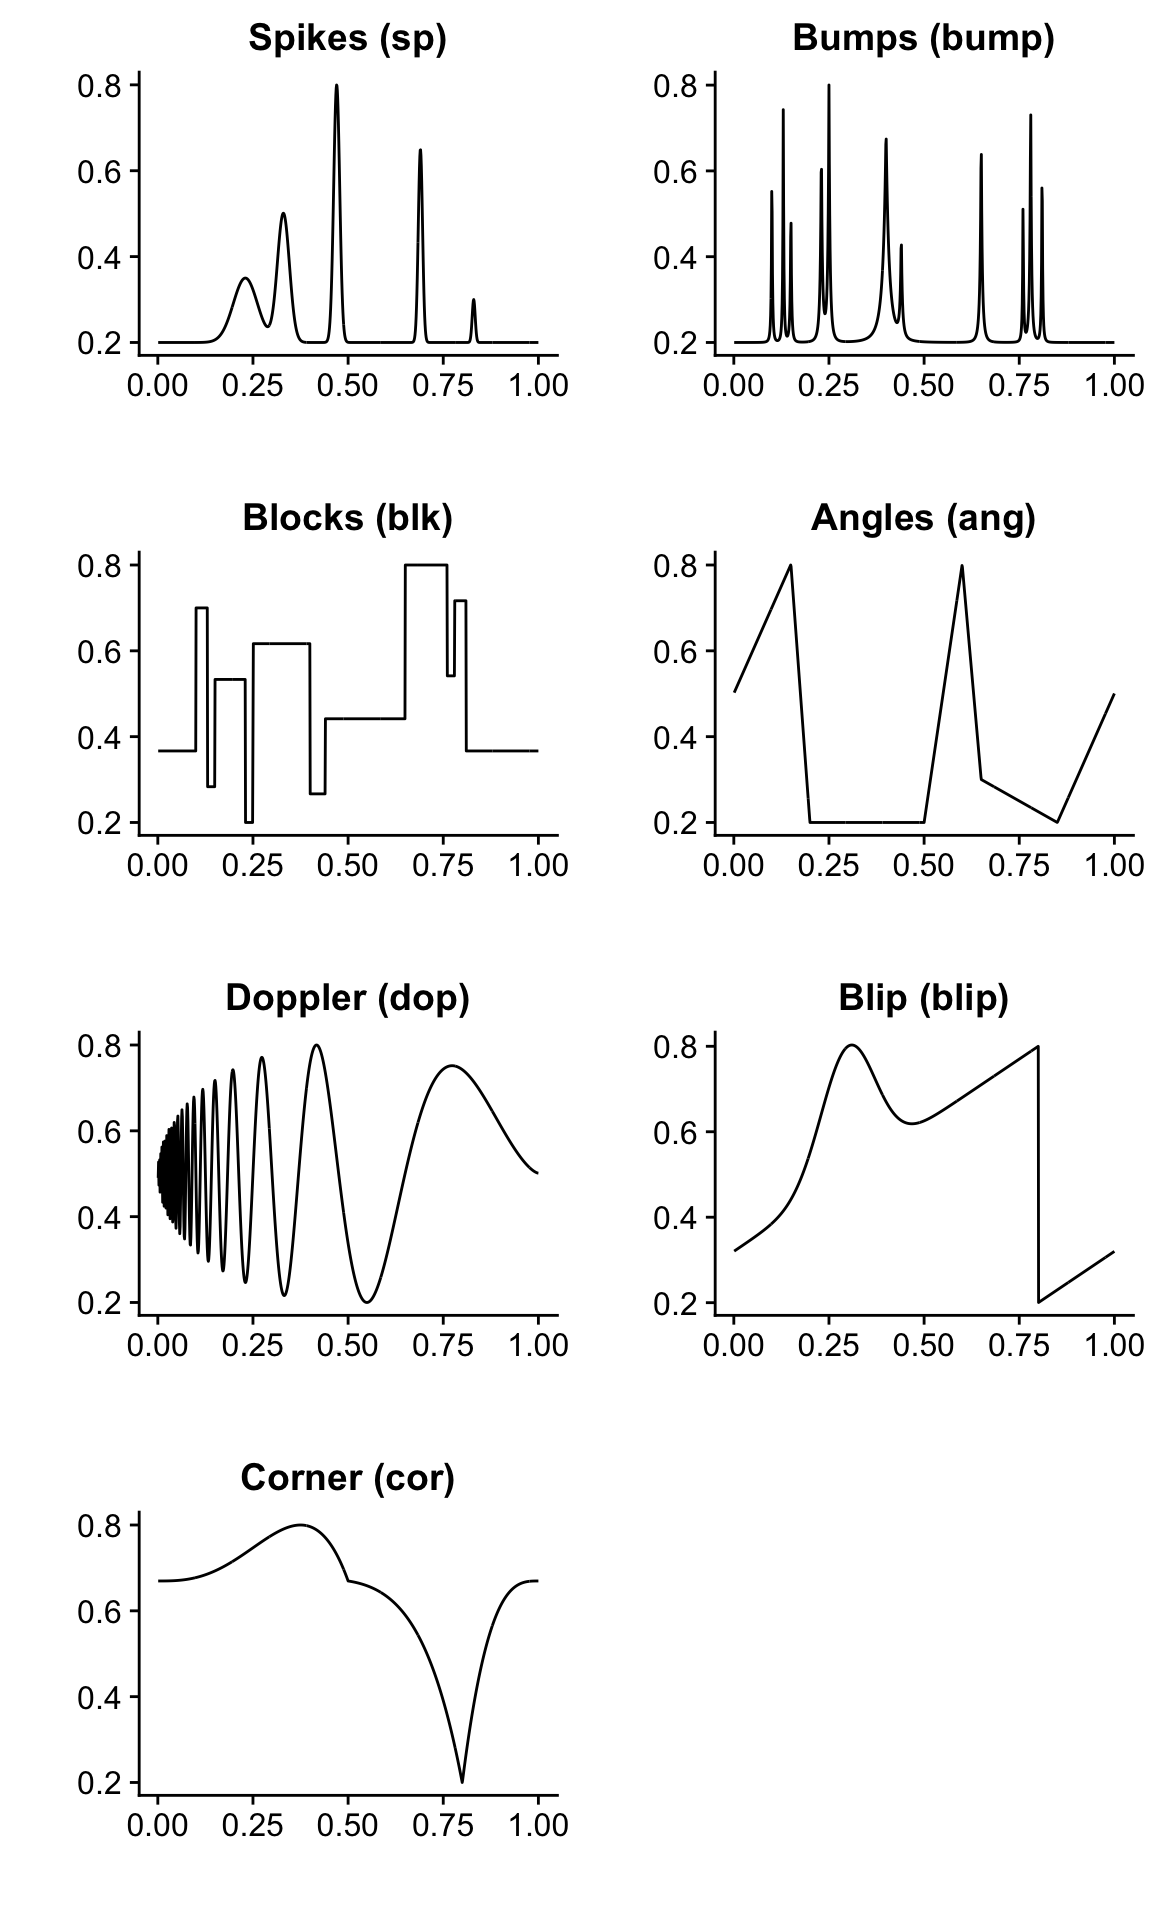
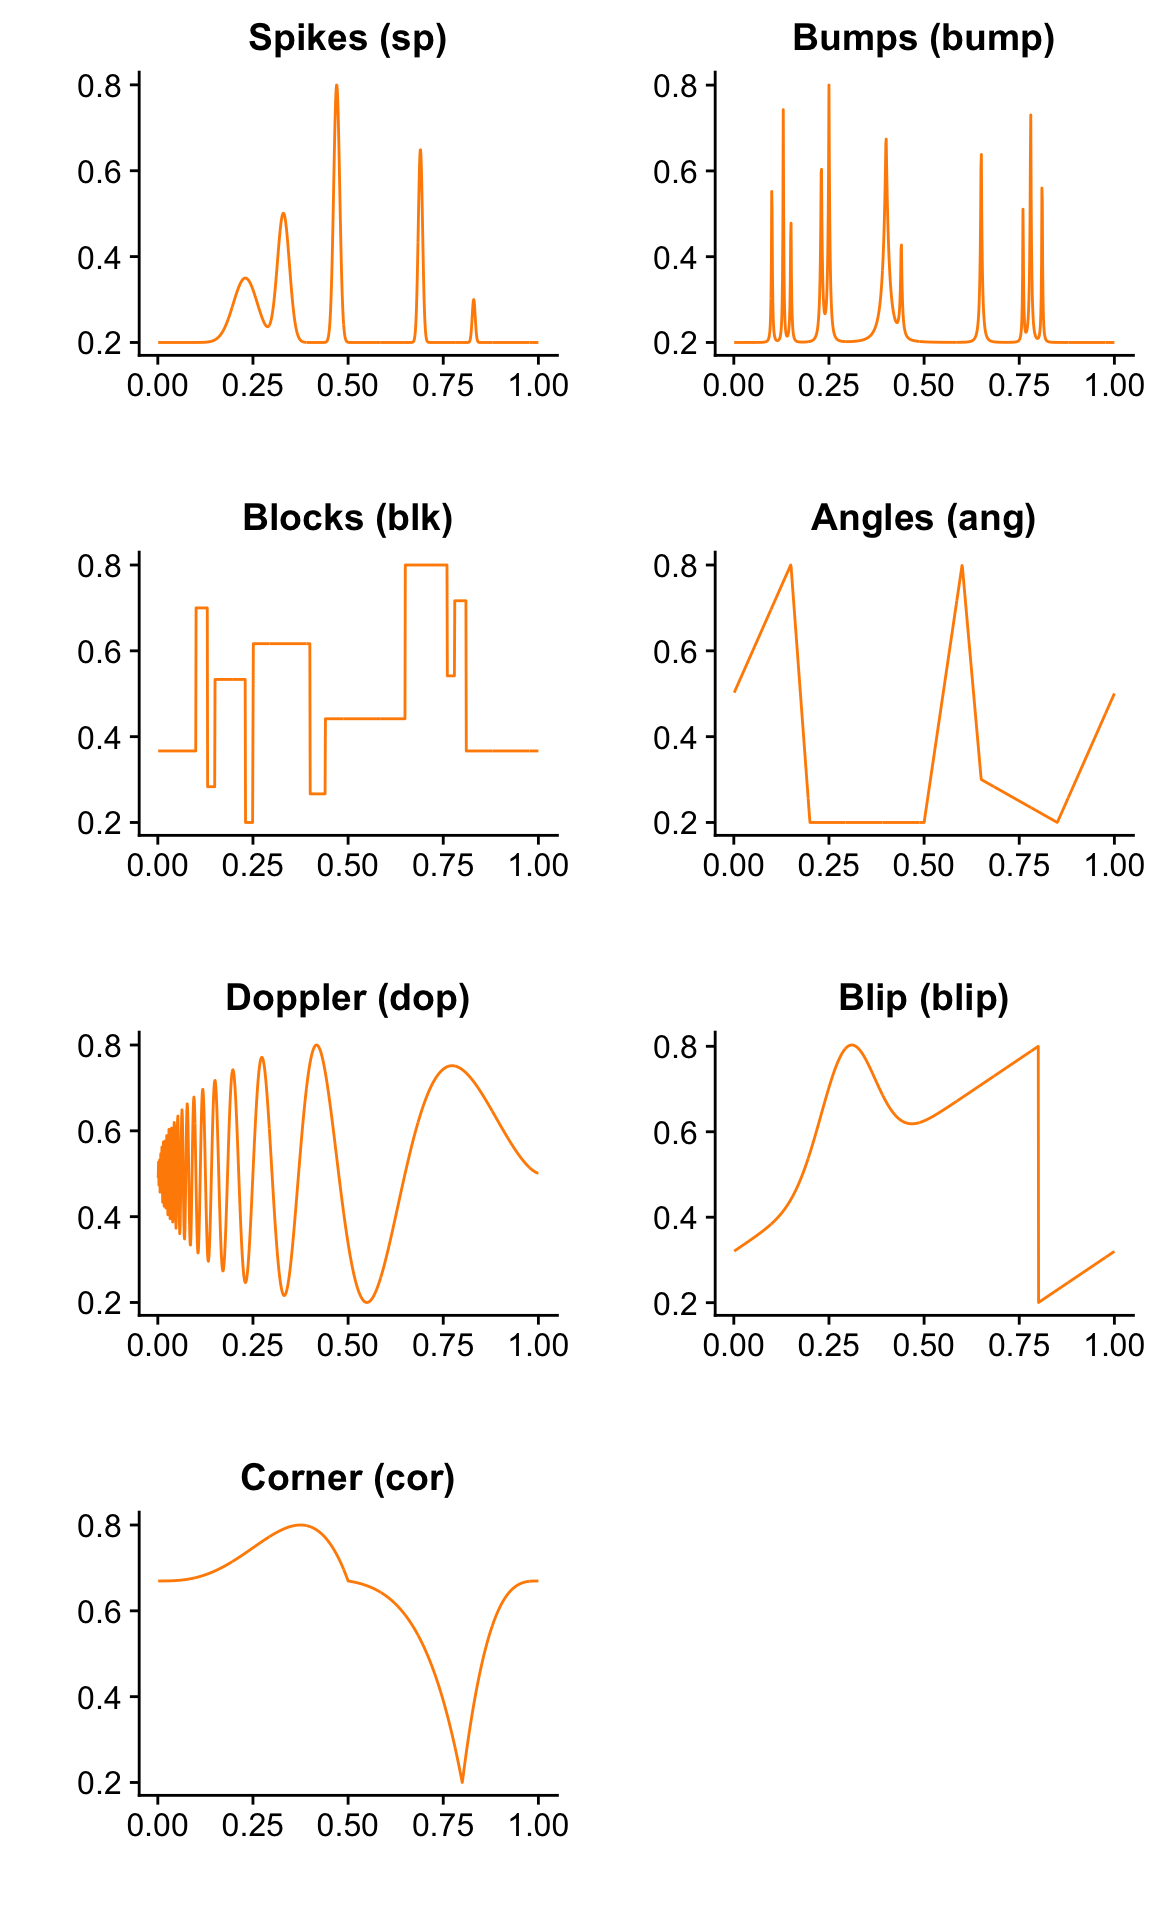
Simplified the plotting code in gaussian_signals analysis.

diff --git a/docs/gaussian_signals.html b/docs/gaussian_signals.html
@@ -419,10 +419,10 @@ This reproducible <a href="http://rmarkdown.rstudio.com">R Markdown</a> analysis
 <div class="panel panel-default">
 <div class="panel-heading">
 <p class="panel-title">
-<a data-toggle="collapse" data-parent="#workflowr-checks" href="#strongRepositoryversionstrongahrefhttpsgithubcomstephenslabsmashpapertree70f9238990e340e0b4520ec9e69ce609a825480atargetblank70f9238a"> <span class="glyphicon glyphicon-ok text-success" aria-hidden="true"></span> <strong>Repository version:</strong> <a href="https://github.com/stephenslab/smash-paper/tree/70f9238990e340e0b4520ec9e69ce609a825480a" target="_blank">70f9238</a> </a>
+<a data-toggle="collapse" data-parent="#workflowr-checks" href="#strongRepositoryversionstrongahrefhttpsgithubcomstephenslabsmashpapertreefdc925813720a196d2f12bc0247b4c769544022btargetblankfdc9258a"> <span class="glyphicon glyphicon-ok text-success" aria-hidden="true"></span> <strong>Repository version:</strong> <a href="https://github.com/stephenslab/smash-paper/tree/fdc925813720a196d2f12bc0247b4c769544022b" target="_blank">fdc9258</a> </a>
 </p>
 </div>
[2 lines of base64/hex data omitted]
 <div class="panel-body">
 <p>
 Great! You are using Git for version control. Tracking code development and connecting the code version to the results is critical for reproducibility. The version displayed above was the version of the Git repository at the time these results were generated. <br><br> Note that you need to be careful to ensure that all relevant files for the analysis have been committed to Git prior to generating the results (you can use <code>wflow_publish</code> or <code>wflow_git_commit</code>). workflowr only checks the R Markdown file, but you know if there are other scripts or data files that it depends on. Below is the status of the Git repository when the results were generated:
@@ -459,6 +459,9 @@ Ignored files:
 
 Untracked files:
     Untracked:  files.txt
+
+Unstaged changes:
+    Modified:   code/signals.R
 
 </code></pre>
 <p>
@@ -497,6 +500,40 @@ Message
 </tr>
 </thead>
 <tbody>
+<tr>
+<td>
+Rmd
+</td>
+<td>
+<a href="https://github.com/stephenslab/smash-paper/blob/fdc925813720a196d2f12bc0247b4c769544022b/analysis/gaussian_signals.Rmd" target="_blank">fdc9258</a>
+</td>
+<td>
+Peter Carbonetto
+</td>
+<td>
+2019-11-12
+</td>
+<td>
+wflow_publish(“gaussian_signals.Rmd”)
+</td>
+</tr>
+<tr>
+<td>
+html
+</td>
+<td>
+<a href="https://rawcdn.githack.com/stephenslab/smash-paper/c6e3cd3e0fea51b6a11210a4f7807426e70fa64e/docs/gaussian_signals.html" target="_blank">c6e3cd3</a>
+</td>
+<td>
+Peter Carbonetto
+</td>
+<td>
+2019-11-12
+</td>
+<td>
+Build site.
+</td>
+</tr>
 <tr>
 <td>
 Rmd
@@ -870,17 +907,11 @@ for (j in 1:length(pos))
   mu.blk = mu.blk + (1 + sign(t - pos[j])) * (hgt[j]/2)
 mu.cblk = mu.blk
 mu.cblk[mu.cblk &lt; 0] = 0</code></pre>
-<p>Define the Blip mean function.</p>
-<pre class="r"><code>mu.blip = (0.32 + 0.6 * t +
-           0.3 * exp(-100 * (t - 0.3)^2)) * (t &gt;= 0 &amp; t &lt;= 0.8) +
-  (-0.28 + 0.6 * t + 0.3 * exp(-100 * (t - 1.3)^2)) * (t &gt; 0.8 &amp; t &lt;= 1)</code></pre>
-<p>Define the Corner mean function.</p>
-<pre class="r"><code>mu.cor = 623.87 * t^3 * (1 - 2 * t) * (t &gt;= 0 &amp; t &lt;= 0.5) +
-         187.161 * (0.125 - t^3) * t^4 * (t &gt; 0.5 &amp; t &lt;= 0.8) +
-         3708.470441 * (t - 1)^3 * (t &gt; 0.8 &amp; t &lt;= 1)
-mu.cor = (0.6/(max(mu.cor) - min(mu.cor))) * mu.cor
-mu.cor = mu.cor - min(mu.cor) + 0.2</code></pre>
-<p>Define the rest of the mean functions.</p>
+<p>Define the “Blip” mean function.</p>
+<pre class="r"><code>mu.blip = blip.fn(t,&quot;mean&quot;)</code></pre>
+<p>Define the “Corner” mean function.</p>
+<pre class="r"><code>mu.cor = cor.fn(t,&quot;mean&quot;)</code></pre>
+<p>Define the remainder of the mean functions.</p>
 <pre class="r"><code>mu.sp   = (1 + mu.s)/5
 mu.bump = (1 + mu.b)/5
 mu.blk  = 0.2 + 0.6 * (mu.blk - min(mu.blk))/max(mu.blk - min(mu.blk))
@@ -892,8 +923,8 @@ var2 = (1e-02 + 4 * (exp(-550 * (t - 0.2)^2) +
                      exp(-200 * (t - 0.5)^2) +
                      exp(-950 * (t - 0.8)^2)))
 var3 = (1e-02 + 2 * mu.dop.var)
-var4 = 1e-02 + mu.b
-var5 = 1e-02 + 1 * (mu.cblk - min(mu.cblk))/max(mu.cblk)
+var4 = 0.01 + mu.b
+var5 = 0.01 + 1 * (mu.cblk - min(mu.cblk))/max(mu.cblk)
 var1 = var1/2
 var2 = var2/max(var2)
 var3 = var3/max(var3)
@@ -904,13 +935,16 @@ var5 = var5/max(var5)</code></pre>
 <h2>Plot the signal means</h2>
 <p>These plots show each of the mean functions used in generating the Gaussian data sets.</p>
 <pre class="r"><code>theme_set(theme_cowplot())
-plot_grid(qplot(t,mu.sp,  geom=&quot;line&quot;,xlab=&quot;&quot;,ylab=&quot;&quot;,main=&quot;Spikes (sp)&quot;),
-          qplot(t,mu.bump,geom=&quot;line&quot;,xlab=&quot;&quot;,ylab=&quot;&quot;,main=&quot;Bumps (bump)&quot;),
-          qplot(t,mu.blk, geom=&quot;line&quot;,xlab=&quot;&quot;,ylab=&quot;&quot;,main=&quot;Blocks (blk)&quot;),
-          qplot(t,mu.ang, geom=&quot;line&quot;,xlab=&quot;&quot;,ylab=&quot;&quot;,main=&quot;Angles (ang)&quot;),
-          qplot(t,mu.dop, geom=&quot;line&quot;,xlab=&quot;&quot;,ylab=&quot;&quot;,main=&quot;Doppler (dop)&quot;),
-          qplot(t,mu.blip,geom=&quot;line&quot;,xlab=&quot;&quot;,ylab=&quot;&quot;,main=&quot;Blip (blip)&quot;),
-          qplot(t,mu.cor, geom=&quot;line&quot;,xlab=&quot;&quot;,ylab=&quot;&quot;,main=&quot;Corner (cor)&quot;),
+plot.signal &lt;- function (t, y, label)
+  quickplot(t,y,geom = &quot;line&quot;,color = I(&quot;darkorange&quot;),
+            xlab = &quot;&quot;,ylab = &quot;&quot;,main = label)
+plot_grid(plot.signal(t,mu.sp,&quot;Spikes (sp)&quot;),
+          plot.signal(t,mu.bump,&quot;Bumps (bump)&quot;),
+          plot.signal(t,mu.blk,&quot;Blocks (blk)&quot;),
+          plot.signal(t,mu.ang,&quot;Angles (ang)&quot;),
+          plot.signal(t,mu.dop,&quot;Doppler (dop)&quot;),
+          plot.signal(t,mu.blip,&quot;Blip (blip)&quot;),
+          plot.signal(t,mu.cor,&quot;Corner (cor)&quot;),
           nrow = 4,ncol = 2)</code></pre>
 <p><img src="figure/gaussian_signals.Rmd/plot-mean-functions-1.png" width="576" style="display: block; margin: auto;" /></p>
 <p>
@@ -935,6 +969,17 @@ Date
 </tr>
 </thead>
 <tbody>
+<tr>
+<td>
+<a href="https://github.com/stephenslab/smash-paper/blob/c6e3cd3e0fea51b6a11210a4f7807426e70fa64e/docs/figure/gaussian_signals.Rmd/plot-mean-functions-1.png" target="_blank">c6e3cd3</a>
+</td>
+<td>
+Peter Carbonetto
+</td>
+<td>
+2019-11-12
+</td>
+</tr>
 <tr>
 <td>
 <a href="https://github.com/stephenslab/smash-paper/blob/f0221c57754f27ee83db649f39a808895e4c1294/docs/figure/gaussian_signals.Rmd/plot-mean-functions-1.png" target="_blank">f0221c5</a>
@@ -987,13 +1032,12 @@ Peter Carbonetto
 <div id="plot-the-signal-variances" class="section level2">
 <h2>Plot the signal variances</h2>
 <p>These plots show the variance functions used in generating the Gaussian data sets. In practice, these functions are rescaled in the simulations to achieve the desired signal-to-noise ratios (see the paper for a more detailed explanation).</p>
-<pre class="r"><code>plot_grid(
-  qplot(t,var1,geom=&quot;line&quot;,xlab=&quot;&quot;,ylab=&quot;&quot;,main=&quot;Constant variance (v1)&quot;),
-  qplot(t,var2,geom=&quot;line&quot;,xlab=&quot;&quot;,ylab=&quot;&quot;,main=&quot;Triple exponential (v2)&quot;),
-  qplot(t,var3,geom=&quot;line&quot;,xlab=&quot;&quot;,ylab=&quot;&quot;,main=&quot;Doppler (v3)&quot;),
-  qplot(t,var4,geom=&quot;line&quot;,xlab=&quot;&quot;,ylab=&quot;&quot;,main=&quot;Bumps (v4)&quot;),
-  qplot(t,var5,geom=&quot;line&quot;,xlab=&quot;&quot;,ylab=&quot;&quot;,main=&quot;Clipped (v5)&quot;),
-  nrow = 3,ncol = 2)</code></pre>
+<pre class="r"><code>plot_grid(plot.signal(t,var1,&quot;Constant variance (v1)&quot;),
+          plot.signal(t,var2,&quot;Triple exponential (v2)&quot;),
+          plot.signal(t,var3,&quot;Doppler (v3)&quot;),
+          plot.signal(t,var4,&quot;Bumps (v4)&quot;),
+          plot.signal(t,var5,&quot;Clipped (v5)&quot;),
+          nrow = 3,ncol = 2)</code></pre>
 <p><img src="figure/gaussian_signals.Rmd/plot-variance-functions-1.png" width="576" style="display: block; margin: auto;" /></p>
 <p>
 <button type="button" class="btn btn-default btn-xs btn-workflowr btn-workflowr-fig" data-toggle="collapse" data-target="#fig-plot-variance-functions-1">
@@ -1017,6 +1061,17 @@ Date
 </tr>
 </thead>
 <tbody>
+<tr>
+<td>
+<a href="https://github.com/stephenslab/smash-paper/blob/c6e3cd3e0fea51b6a11210a4f7807426e70fa64e/docs/figure/gaussian_signals.Rmd/plot-variance-functions-1.png" target="_blank">c6e3cd3</a>
+</td>
+<td>
+Peter Carbonetto
+</td>
+<td>
+2019-11-12
+</td>
+</tr>
 <tr>
 <td>
 <a href="https://github.com/stephenslab/smash-paper/blob/f0221c57754f27ee83db649f39a808895e4c1294/docs/figure/gaussian_signals.Rmd/plot-variance-functions-1.png" target="_blank">f0221c5</a>
